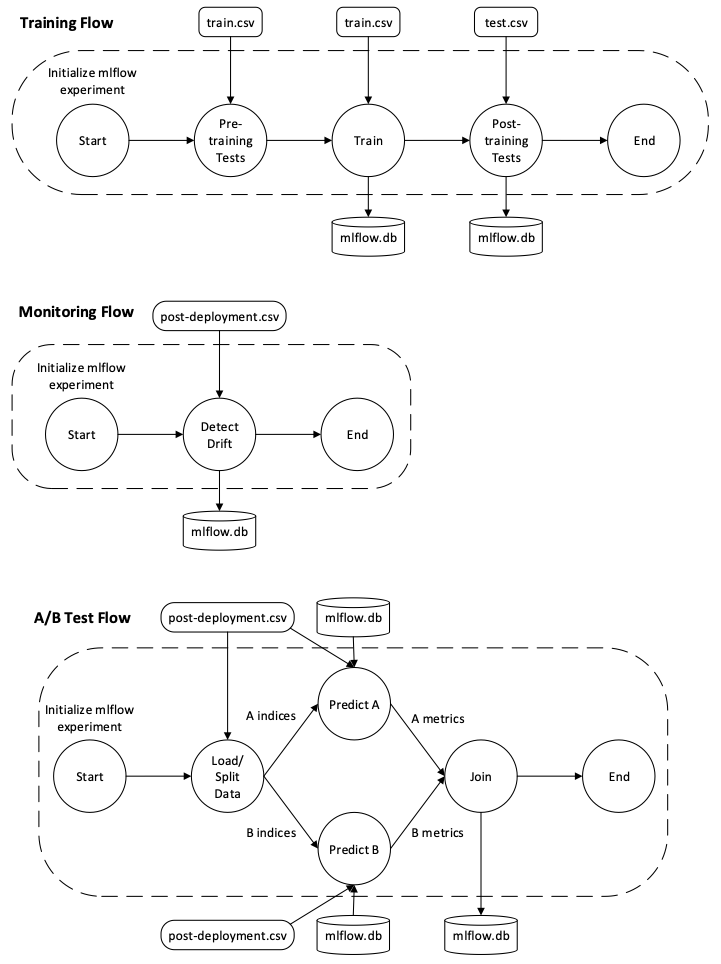
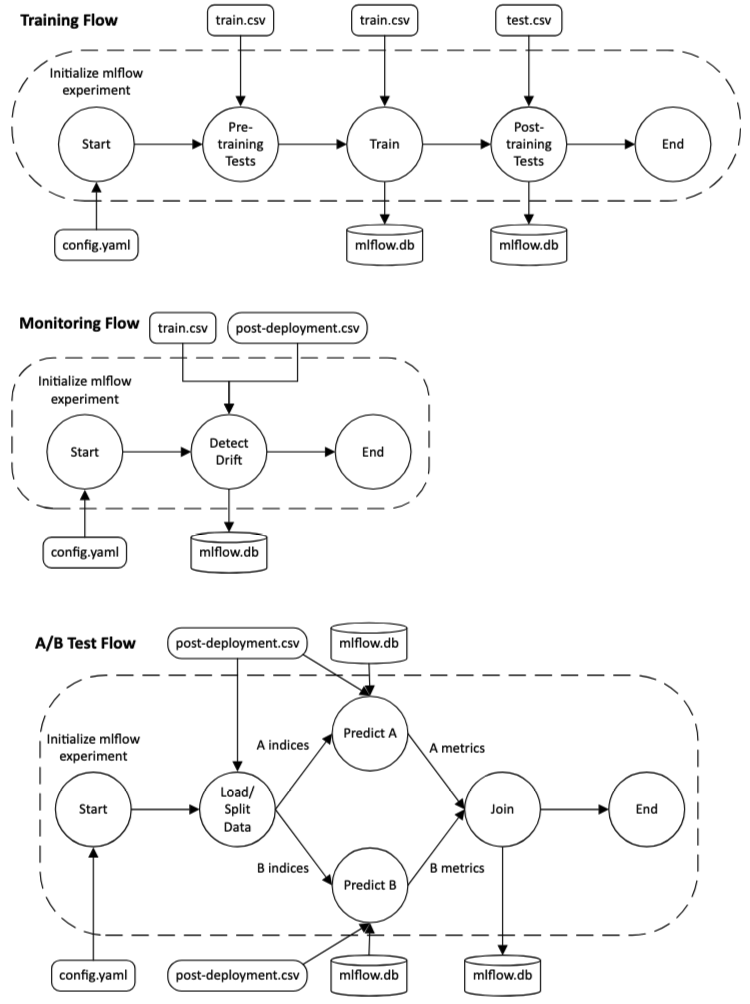
update flow diagrams

diff --git a/src/iot_security_mlops/utils/utils_data.py b/src/iot_security_mlops/utils/utils_data.py
@@ -21,7 +21,7 @@ def df_sensor_msg_freq(df: pd.DataFrame, ip_address: str, mqtt_msgtype: float) -
 
 def df_all_sensor_msg_freq(df: pd.DataFrame, mqtt_msgtype: float) -> pd.DataFrame:
     """
-    Filters df for packets of a given sensor IP address and mqtt.msgtype.
+    Filters df for packets of a given mqtt.msgtype and creates delta col representing the messaging frequency.
     :param df: df of packets.
     :param mqtt_msgtype: MQTT message type corresponding to Wireshark convention.
     :return: df with message frequency for only packets of mqtt_msgtype.